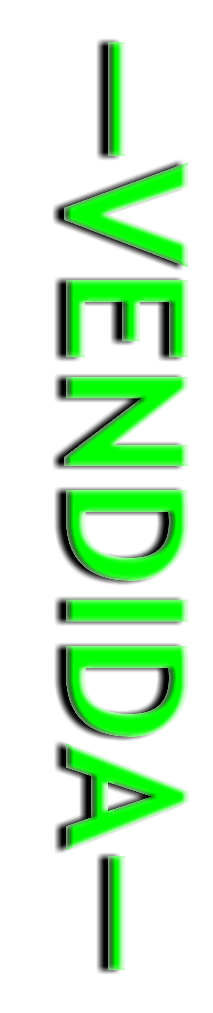
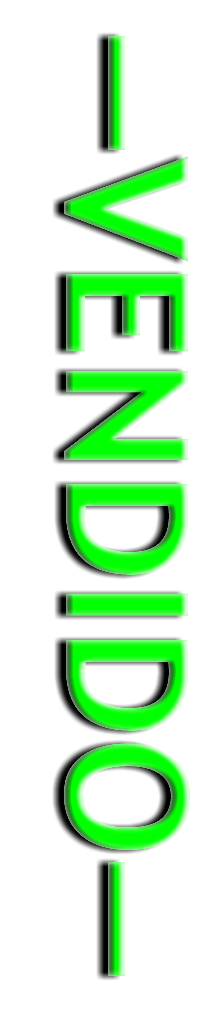
'VENDIDO' typo corrected.

Changed region(s): [[0.2254, 0.1224, 0.9014, 0.8569], [0.4507, 0.9487, 0.5915, 0.9793], [0.4507, 0.0306, 0.5915, 0.0612]]

diff --git a/index.html b/index.html
@@ -341,7 +341,7 @@ if(typeof Muse == "undefined") window.Muse = {}; window.Muse.assets = {"required
     </div>
     <div class="grpelem" id="u4455"><!-- simple frame --></div>
     <div class="grpelem" id="u4456-4" data-mu-ie-matrix="progid:DXImageTransform.Microsoft.Matrix(M11=-0.6691,M12=0.7431,M21=-0.7431,M22=-0.6691,SizingMethod='auto expand')" data-mu-ie-matrix-dx="-341" data-mu-ie-matrix-dy="88" data-sizePolicy="fixed" data-pintopage="page_fluidx"><!-- rasterized frame -->
-     <img id="u4456-4_img" alt="—VENDIDA—" width="213" height="1013" src="images/u4456-4.png?crc=16520585" data-hidpi-src="images/u4456-4_2x.png?crc=330024761" data-IBE-flags="txtStyleSrc"/>
+     <img id="u4456-4_img" alt="—VENDIDO—" width="213" height="1013" src="images/u4456-4.png?crc=281404067" data-hidpi-src="images/u4456-4_2x.png?crc=3979630337" data-IBE-flags="txtStyleSrc"/>
     </div>
    </div>
    <div class="size_fixed grpelem" id="u189" data-sizePolicy="fixed" data-pintopage="page_fixedLeft"><!-- custom html -->
